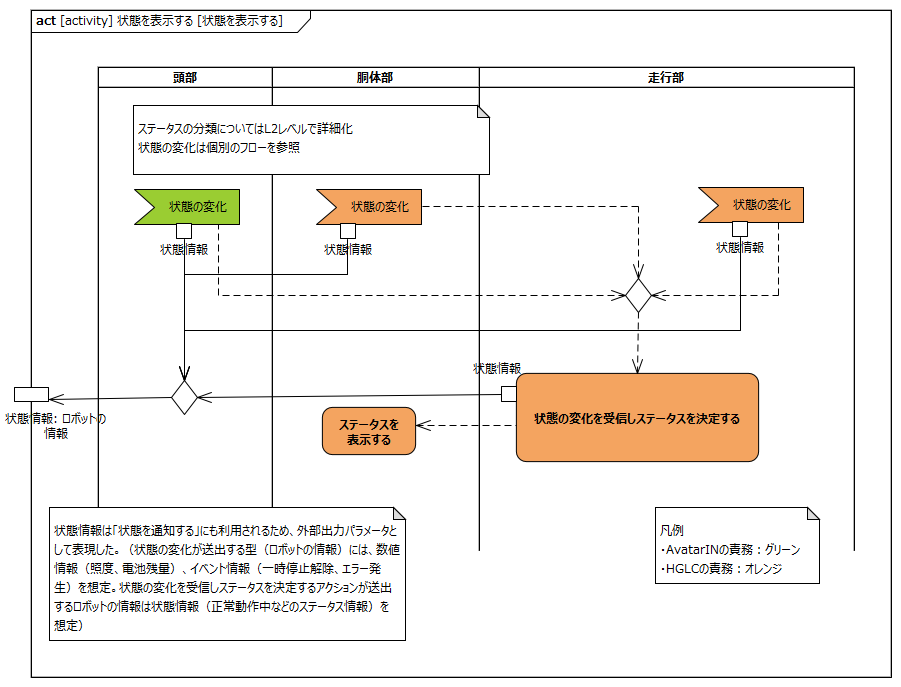
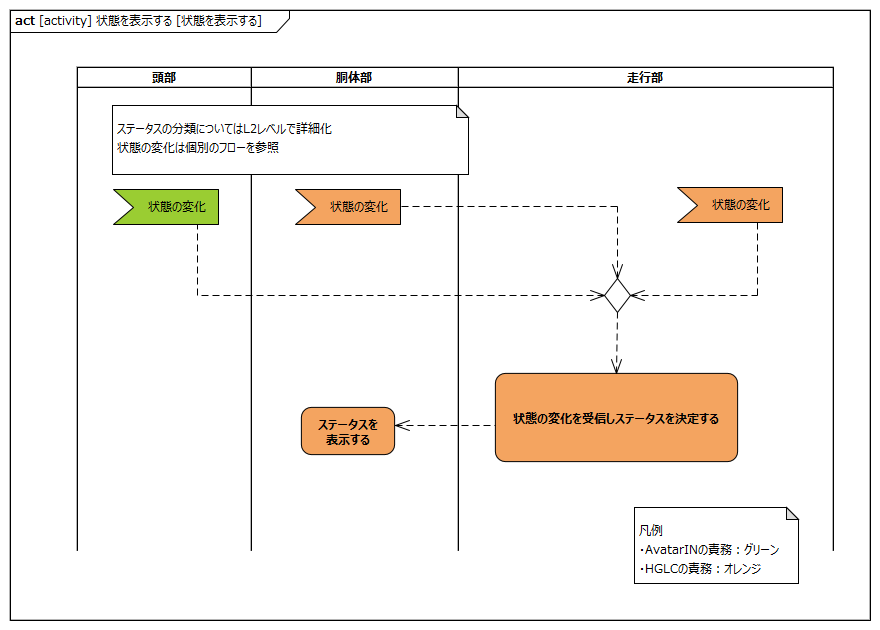
タスク：「テレプレ要求の詳細化：”状態を表示する”のL1抽出」、「テレプレ要求の詳細化：”状態を通知する”のL1抽出」、「テレプレ要求の詳細化：”データを送信する”のL1抽出」 ・「データを送信する」の追記 ・「状態を通知する」の修正（挿入図の修正、質問事項を削除） ・「状態を表示する」の修正（状態情報の概念クラスを削除、挿入図の修正、質問事項を削除）

Changed region(s): [[0.0, 0.0, 1.0, 0.9952]]

diff --git a/requirements/requirement.md b/requirements/requirement.md
@@ -1231,10 +1231,6 @@ YES動作コマンドは首垂直動作に依存し、NO動作コマンドは首
 |ドッキングワイヤ検出中|
 |電源OFF時の充電中|
 
-ロボット内で扱われる情報としては以下のような概念モデルを想定（末端のクラスはL2以降で精査）
-
-![](.images/conceptual/robot_info.png)
-
 
 **テレプレゼンスロボット内部の処理**
 
@@ -1245,14 +1241,7 @@ YES動作コマンドは首垂直動作に依存し、NO動作コマンドは首
 - 事後条件
     - todo
 - 備考
-	- ステータスは上記の想定で充分かの確認が必要
-        - 各種警告の内、別表示が必要なものが無いか？
-          - ex.電池残量不足（残り僅か。何％で表示するか？）
-        - 停止中と一時停止中は区別が必要か？<br/>（REQ-023/025は一時停止に対する表示要求。停止中と同じと考えて良いか？）
-    - 警告、エラーの判断責務・基準
-      - ex.カメラ、ディスプレイ、スピーカー、マイク等の頭部側エラー
-      - ex.モータ、過放電などの胴体部・走行部のエラー 
-      - ex.エラー、警告の閾値・判断ロジック
+	- todo
   
 **要求抽出**
 
@@ -1260,6 +1249,9 @@ YES動作コマンドは首垂直動作に依存し、NO動作コマンドは首
 
 |要求|備考|
 |:---|:---|
+|頭部は状態の変化を検知したら走行部に状態情報を送信する||
+|胴体部は状態の変化を検知したら走行部に状態情報を送信する||
+|走行部は状態の変化を検知したら走行部に状態情報を送信する||
 |走行部は各部から状態の変化を受信しステータスを決定する|・ステータスの分類についてはL2レベルで詳細化する<br/>・イベント（走行部に送られる状態の変化通知）は個別のフローを参照|
 |胴体部はステータスを表示する|LEDランプを想定|
 
@@ -1279,31 +1271,8 @@ YES動作コマンドは首垂直動作に依存し、NO動作コマンドは首
     - todo
 - 事後条件
     - todo
-- 不変条件
-	- なし
-- 代替フロー
-    - todo
-- 例外フロー
-    - todo
 - 備考
-	- アバタークラウドが知りたい（≒アバターアプリ利用ユーザ）が知りたい状態とは？
-        - 要求分析結果からすると、
-          - 各センサーの状態
-            - センサーの洗い出しはL2レベルで良いか？
-          - 起動処理の完了
-            - 通知は起動処理開始と完了と考えて良いか？
-          - バッテリ残量低下による停止
-            - 通常の停止とは区別した通知が必要か？
-          - 一時停止
-            - 一時停止操作の実行により発火する通知と考えて良いか？
-          - 一時停止解除
-            - 一時停止解除操作の実行により発火する通知と考えて良いか？
-          - 充電状況
-            - 充電量の閾値をまたぐことで発火する通知と考えて良いか？
-            - 「状態を表示する」の方は「充電不足」か「充電が足りている」だが、通知して欲しい粒度は、10%刻みや充電余裕、充電不足間近、充電不足のように異なることは無いか？
-          - 明るさの不足
-            - 明るさの閾値をまたぐことで発火する通知と考えて良いか？
-        - 他には無いか？
+	- todo
 
 **要求抽出**
 
@@ -1311,11 +1280,42 @@ YES動作コマンドは首垂直動作に依存し、NO動作コマンドは首
 
 |要求|備考|
 |:---|:---|
-|頭部はロボットの状態を判断しアバタークラウドに送信する|・送信する情報はL2以降で精査|
+|頭部は状態情報を受けてアバタークラウドに送信する|・受け付ける状態情報については「状態を表示する」を参照|
 
 
 <div style="page-break-before:always"></div>
 
+## データを送信する
+
+**ユースケース概要**
+
+バッテリ残量などのデータをアバタークラウドに送信する
+
+**テレプレゼンスロボット内部の処理**
+
+![](.images/activity/send_data.png)
+
+- 事前条件
+    - todo
+- 事後条件
+    - todo
+- 備考
+	- todo
+
+**要求抽出**
+
+上記の内部の処理を元に要求を抽出する。
+
+|要求|備考|
+|:---|:---|
+|頭部はセンサーで値を取得する|・現状は無しの想定|
+|頭部はアバタークラウドにデータを送信する||
+|胴体部はセンサーで値を取得する|・現状は無しの想定|
+|走行部はセンサーで値を取得する|・現状は電池容量のみの想定|
+|走行部は頭部にセンサーの値を送信する|・現状は電池容量のみの想定|
+
+
+<div style="page-break-before:always"></div>
 ## シャットダウンする
 
 **ユースケース概要**
